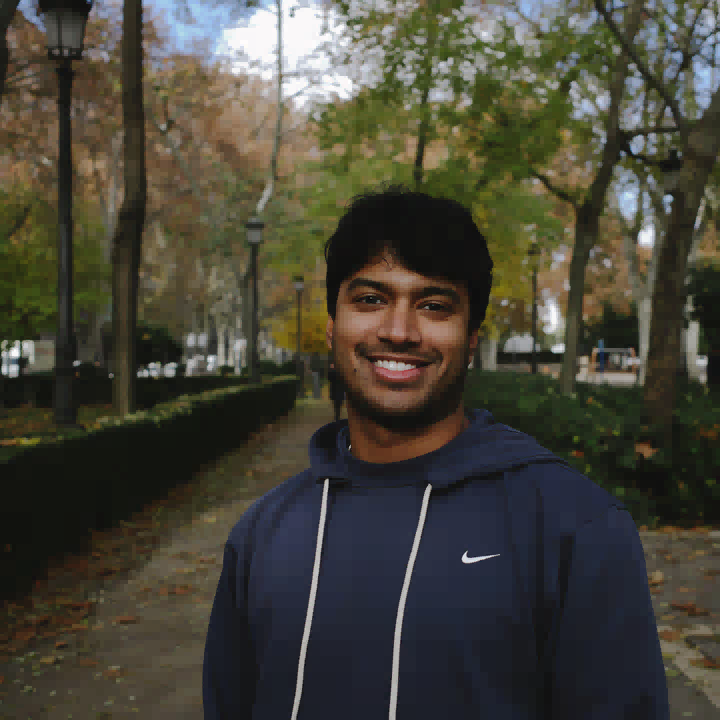
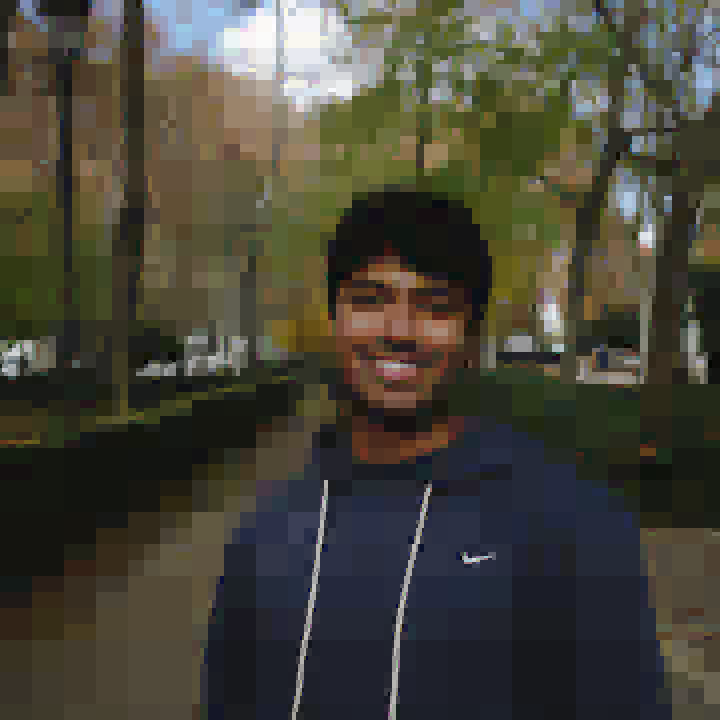
Make the four sketches visibly more distorted
Heavier compression across the board: count m-ratio 0.45->0.22 with median-of-5,
DCT block=32 keep=2 (strong blocking), wavelet keep 0.008->0.002, SVD rank 36->14.

diff --git a/generate_sketches.py b/generate_sketches.py
@@ -35,7 +35,7 @@ def build_original():
 
 
 # ---------------- count sketch (random hashing) ----------------
-def _count_sketch(chan, m, k=9, seed=7919):
+def _count_sketch(chan, m, k=5, seed=7919):
     N = chan.shape[0]
     rec = np.empty((k, N), np.float32)
     for t in range(k):
@@ -48,7 +48,7 @@ def _count_sketch(chan, m, k=9, seed=7919):
 
 def make_count(rgb):
     H, W, _ = rgb.shape
-    m = int(0.4545 * H * W)                     # keep the old m/N compression ratio
+    m = int(0.22 * H * W)                       # heavier compression -> more collision grain
     out = np.empty_like(rgb)
     for c in range(3):
         out[..., c] = _count_sketch(rgb[..., c].reshape(-1), m).reshape(H, W)
@@ -126,9 +126,9 @@ def main():
     print(f"original -> {DISP} ({DISP_PX}px); sketches at {WORK}px (scale {S}x)")
     for name, arr in [
         ("count",   make_count(work)),
-        ("dct",     make_dct(work, block=8 * S, keep=2 * S)),
-        ("wavelet", make_wavelet(work)),
-        ("lowrank", make_lowrank(work, r=12 * S)),
+        ("dct",     make_dct(work, block=32, keep=2)),
+        ("wavelet", make_wavelet(work, keep_frac=0.002)),
+        ("lowrank", make_lowrank(work, r=14)),
     ]:
         Image.fromarray(arr).save(f"img/sketch_{name}.png", optimize=True)
         print(f"  {name:8s} -> img/sketch_{name}.png")
